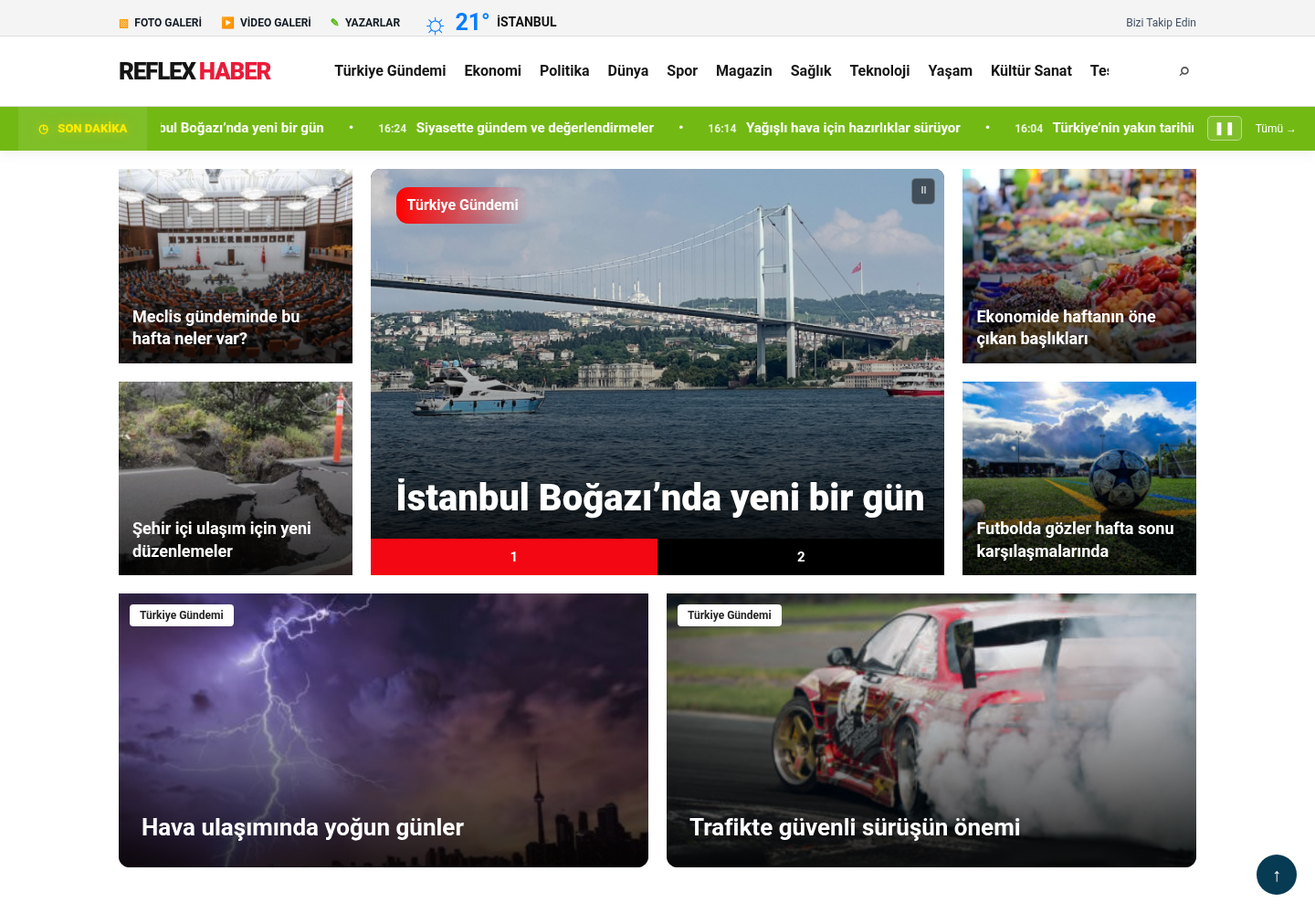
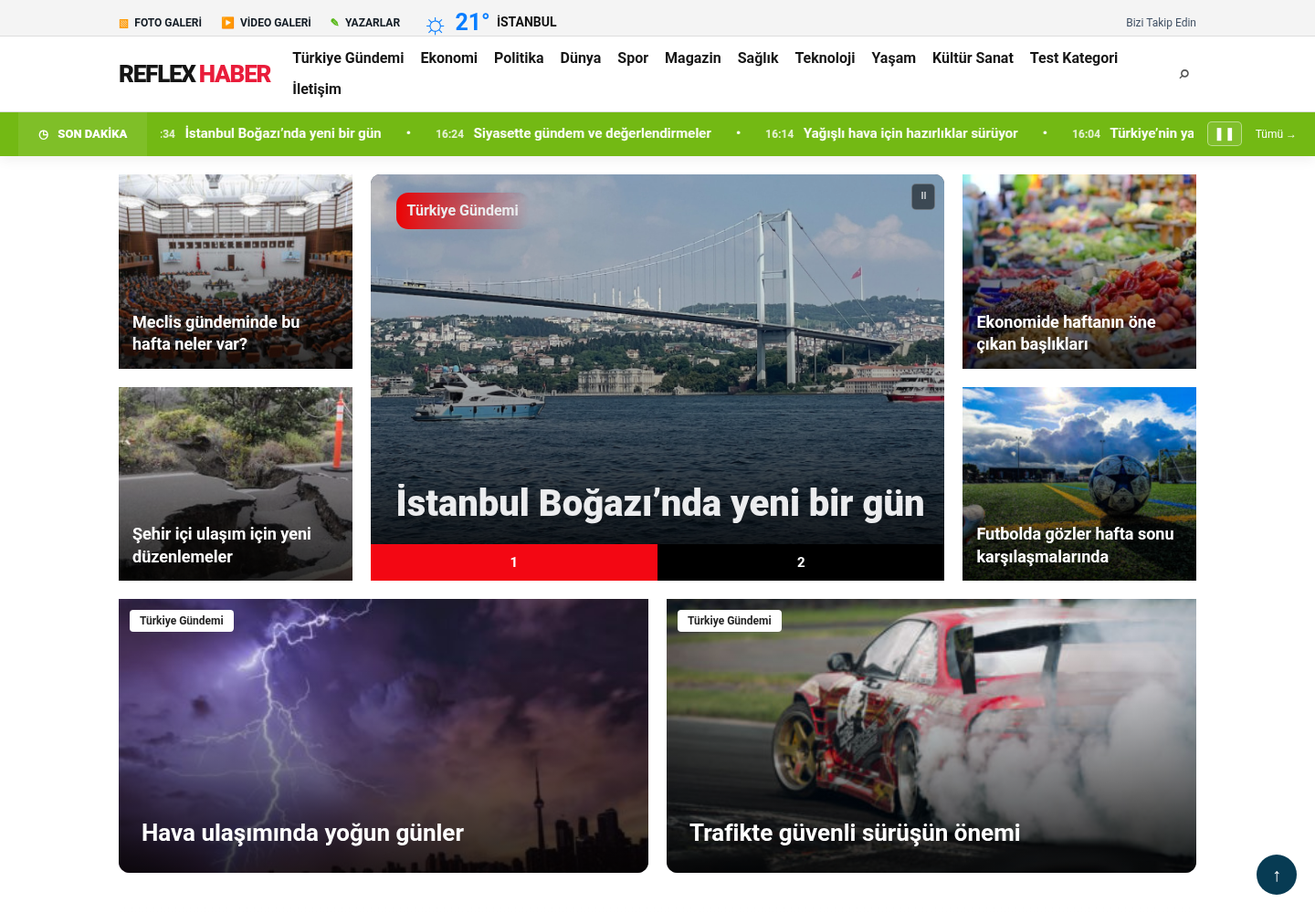
Release Pro 3.3.3: live traffic, panel repairs and SQL cPanel bundle

diff --git a/README.md b/README.md
@@ -1,18 +1,22 @@
-# Reflex Haber Pro 3.3.2 · 4 Tema
+# Reflex Haber Pro 3.3.3 · 4 Tema
 
 PHP 8.1+ haber sitesi ve Türkçe yayın yönetim merkezi. MySQL/MariaDB veya SQLite; Composer, Laravel ve Node kurulumu gerekmez.
 
-**[Pro 3.0 / 3.1 / 3.2 / 3.3 için tek adımda tam güncelleme ZIP](https://github.com/pelinduyar6-pixel/pelin/raw/refs/heads/main/downloads/reflex-haber-pro-3-3-2-tam-guncelleme.zip)**
+**[Pro 3.0 / 3.1 / 3.2 / 3.3 için tek adımda tam güncelleme ZIP](https://github.com/pelinduyar6-pixel/pelin/raw/refs/heads/main/downloads/reflex-haber-pro-3-3-3-tam-guncelleme.zip)**
 
-**[Yeni kurulum için tam paket ZIP](https://github.com/pelinduyar6-pixel/pelin/raw/refs/heads/main/downloads/reflex-haber-pro-4-tema.zip)**
+**[Yeni cPanel kurulumu için SQL içeren tam paket ZIP](https://github.com/pelinduyar6-pixel/pelin/raw/refs/heads/main/downloads/reflex-haber-pro-3-3-3-cpanel-sql.zip)**
 
-[3.3.2 yükleme adımları](GUNCELLEME-3-3-2.md) · [Doğrulama sonuçları](DOGRULAMA-3-3-2.md) · [Veri taşıma](VERI-TASIMA.md) · [Kurulum](KURULUM.md) · [Nginx](NGINX.md) · [SHA-256](downloads/reflex-haber-pro-3-3-2-tam-guncelleme.sha256)
+Bu sürüm: kaydırma çubuğu olmayan kategori menüsü, manşet üzerinde Son Dakika şeridinin kaldırılması, referans sütun düzeninde haber listesi, ayrı editör adım numaraları, gerçek anonim **Canlı Veri Merkezi**, **BİK kod alanı** ve elle seçilen/açılan bot kaynakları.
+
+[3.3.3 yükleme adımları](GUNCELLEME-3-3-3.md) · [Doğrulama sonuçları](DOGRULAMA-3-3-3.md) · [Veri taşıma](VERI-TASIMA.md) · [Kurulum](KURULUM.md) · [Nginx](NGINX.md) · [SHA-256](downloads/reflex-haber-pro-3-3-3-tam-guncelleme.sha256)
 
 **104 KB’lık eski Pro 3.0→3.1 ZIP’i güncel değildir.** Güncel paket tüm gerekli uygulama, CSS ve JavaScript dosyalarını birlikte içerir. Güncellemeden sonra panelde **Sistem Kontrolü** ekranından eksik/karışık dosyaları görebilirsiniz.
 
+Yeni cPanel için [SQL içeren tam paket](https://github.com/pelinduyar6-pixel/pelin/raw/refs/heads/main/downloads/reflex-haber-pro-3-3-3-cpanel-sql.zip) ve [cPanel kurulum adımları](CPANEL-KURULUM-3-3-3.md).
+
 Yeni kurulum için [SQL ZIP](downloads/reflex-haber-sql.zip), [SQL dosyası](downloads/reflex-haber-pro.sql) ve [phpMyAdmin adımları](SQL-KURULUM.md). **Çalışan siteyi güncellerken SQL’i yeniden içe aktarmayın.**
 
-## 3.3.2 düzeltmesi ve korunan araçlar
+## 3.3.3 düzeltmesi ve korunan araçlar
 
 - Dört temanın 3.2 ana sayfa ve footer görünümü geri alındı; son tema yeniden tasarımı kaldırıldı. Marka renkleri panelden seçilir. Kategori manşetinin beyaz bant ve başlık/numara çakışması düzeltmeleri korunur. Haber listesinde Önceki / 1 / 2 / 3 / Sonraki ayrı düğmelerle gösterilir.
 - **Türkiye Gündemi** ana manşet ve haber alanıdır. Eski Gündem kategori ID’si ve `gundem` URL’si korunur. **Ana Sayfa & Kategoriler** ekranından ana kategori, alt bölümler, sıraları ve görünümleri seçilir. Ana sayfa ve haber içinde gerçek görüntülenme sayılarına göre **En çok okunanlar** sağ sütunu; içeriksiz video/galeri bölümleri gizlenir.
@@ -22,7 +26,7 @@ Yeni kurulum için [SQL ZIP](downloads/reflex-haber-sql.zip), [SQL dosyası](dow
 - Haber detayı: görselli son haberler, ilgili haberler ve en çok okunanlar. **Reklam Alanları**: metin içi reklam ve haber sağ sütunu üst/orta/alt; cihaz/zaman/öncelik ayarları. Atanmamış reklam boş kutu bırakmaz.
 - **Veri Taşıma**: ilk ekranda SQL, görsel ZIP ve doğrudan uploads / resim klasörü seçimi vardır. SQL ve görseller ayrı yüklenebilir; klasörler küçük gruplarla gönderilir. Alt yollar korunur, tablo/alan/kategori ID eşleştirmesi ve haber önizlemesi sunulur. Boş kategori ID’leri korunur; çakışmalarda mevcut kategoriler ezilmez. Haberler 100 kayıtlık, devam edebilen adımlarla **taslak** aktarılır. Aynı SQL’in tekrar işlenmesi haberleri çoğaltmaz. Eski hesaplar/parolalar ve çoklu kategori ilişki tabloları bu aktarımın kapsamı dışındadır; [desteklenen biçimler](VERI-TASIMA.md).
 
-[Türkiye Gündemi](previews/pro/turkiye-gundemi.png) · [Paylaş menüsü](previews/pro/paylas-menu.png) · [Bot merkezi](previews/pro/bot-merkezi.png) · [Haber detayı](previews/pro/haber-detay.png) · [Kategori manşeti](previews/pro/kategori-slider.png) · [SQL / ZIP / klasör yükleme](previews/pro/veri-tasima-yukleme.png) · [Taşıma önizlemesi](previews/pro/veri-tasima-onizleme.png) · [Düzeltilen sayfalama](previews/pro/haber-sayfalama.png) · [Sistem Kontrolü](previews/pro/sistem-kontrolu.png)
+[Türkiye Gündemi](previews/pro/turkiye-gundemi.png) · [Paylaş menüsü](previews/pro/paylas-menu.png) · [Bot merkezi](previews/pro/bot-merkezi.png) · [Haber detayı](previews/pro/haber-detay.png) · [Kategori manşeti](previews/pro/kategori-slider.png) · [SQL / ZIP / klasör yükleme](previews/pro/veri-tasima-yukleme.png) · [Taşıma önizlemesi](previews/pro/veri-tasima-onizleme.png) · [Haber listesi / paylaş](previews/pro/haber-listesi.png) · [Canlı veri merkezi](previews/pro/canli-veri.png) · [BİK kod alanı](previews/pro/bik-kodu.png) · [Düzeltilen sayfalama](previews/pro/haber-sayfalama.png) · [Sistem Kontrolü](previews/pro/sistem-kontrolu.png)
 
 ![Tema 1](previews/pro/tema-1.png)
 
@@ -47,10 +51,10 @@ Haber/makale yönetimi, filtreli toplu seçim ve yayına alma/taslak/silme; MP4/
 
 ## Kurulum ve doğrulama
 
-Yeni klasöre tam ZIP’i açın; `/kurulum.php` ile kendi veritabanı ve yönetici hesabınızı oluşturun. Panel `/panel.php` adresindedir. Çalışan Pro 3.2 için küçük güncelleme ZIP’i; daha eski PHP sürümünde tam paketin uygulama dosyaları kullanılır. **`.env`, `storage`, `uploads` korunur; çalışan site yeniden kurulmaz.** Eski Laravel paketinin üzerine açmayın.
+Yeni klasöre tam ZIP’i açın; `/kurulum.php` ile kendi veritabanı ve yönetici hesabınızı oluşturun. Panel `/panel.php` adresindedir. Çalışan Pro 3.0 ve sonrası için 3.3.3 tam güncelleme ZIP’i kullanılır. **`.env`, `storage`, `uploads` korunur; çalışan site yeniden kurulmaz.** Eski Laravel paketinin üzerine açmayın.
 
 Kaynak, piyasa, lig ve OpenAI bağlantılarını panelde test edin; gizli anahtarları yalnızca özel panel alanlarına girin. Hosting cron görevini 5 dakikada bir kurun. SQL/görsel taşıma önce test ortamında denenmelidir. Storage HTTP erişimine kapalı, PHP Phar uzantısı görsel ZIP işlemi için açık olmalıdır.
 
-SQLite/MySQL üzerinde URL/saat ayarları, ortak model, reklam yerleşimleri, gerçek SQL/görsel ZIP ve doğrudan klasör aktarımı, taslaklar, kategori ID ilişkileri ve izin/CSRF kontrolleri geçti. Dört tema ve yönetim ekranları 320–1440 pikselde; paylaşım/clipboard, manşet, yazar kaydırma ve taşıma önizlemesi doğrulandı. Gerçek 3.2 → 3.3 delta testi **56 haber, 7 hesap/parola hash’i, kategori ID/URL’leri, özel ayarlar, anahtar dosyaları, .env ve PDF’yi korudu**. Yeni kurulum ve 22 tablolu şema doğrulandı.
+3.3.3: 104 PHP dosyasının sözdizimi, 140 PHP entegrasyon kontrolü, 160 tarayıcı kontrolü ve SQLite/MySQL’de 32 yeni özellik HTTP kontrolü geçti. SQL içeren yeni cPanel paketi boş MariaDB veritabanına aktarılarak 24 tablo, web kurulumu, yönetici girişi, haber/görsel işlemleri ve veri taşıma doğrulandı. Gerçek Pro 3.0 ve 3.3.2 kurulumlarına tekrarlı güncellemede eski haberler, hesap/parolalar, kategori ID’leri, seçilmiş bot kaynakları, ayarlar ve özel dosyalar korundu. [Ayrıntılı kanıt ve sınırlar](DOGRULAMA-3-3-3.md).
 
 Önceki doğrulamada resmi dört haber RSS’i, Sözcü fiyatları ve NTV lig/BIST verileri ayrıştırıldı. Bulut PHP DNS pinleme kontrolünde dış alan adları çözülemedi; koruma kapatılmadı. Hosting bağlantıları ayrıca test edilmelidir. Gerçek OpenAI model erişimi/ücretli ajans çağrısı ve canlı hosting dağıtımı yapılmadı. Önceki ZIP’ler downloads klasöründe korunur; eski yamaları 3.3.1 dosyalarının üzerine uygulamayın.

diff --git a/DOGRULAMA-3-3-3.md b/DOGRULAMA-3-3-3.md
@@ -1,0 +1,35 @@
+# Pro 3.3.3 doğrulaması · 10 Ekim 2026
+
+Yerel ve ayrı test kurulumlarında PHP 8.4.24, SQLite, MariaDB 11.8 ve Chromium kullanıldı. Üretim veritabanına bağlanılmadı, canlı hosting dosyaları değiştirilmedi.
+
+## Tam kurulum ve gerçek sürüm güncellemesi
+
+- Yeni cPanel ZIP’inin içindeki SQL boş MariaDB veritabanına aktarıldı: **24 tablo, sıfır hesap ve özel kayıt**. Ardından web kurulumu, yönetici girişi, haber yayınlama/düzenleme, görsel yükleme, yorum onayı, zamanlanmış yayın ve yetki kontrolleriyle 30 HTTP kontrolü geçti.
+- Aynı yeni kurulumda eski SQL + ayrı görsel ZIP ile taslak aktarımı, kategori ID korunması, kapak/önizleme, yetkisiz erişimin engellenmesi ve özel geçici dosyaların temizlenmesi geçti.
+- Gerçek Pro 3.0 arşivinden kurulan sistem 3.3.3 ZIP’iyle birden fazla kez güncellendi. **47 haber, 7 hesap/parola hash’i, 11 kategori ve reklam kaydı** korundu. `.env`, `storage/site.php` ve yüklenen PDF’nin SHA-256 değerleri değişmedi.
+- Gerçek Pro 3.3.2 kurulumunda aynı tekrar uygulama geçti: **56 haber, 7 hesap/parola hash’i, 11 kategori, 4 seçilmiş bot kaynağı ve reklam kaydı** korundu. Manuel ayarlar ve özel dosyalar değişmedi.
+- Sistem Kontrolü doğru paketi doğruladı; eski CSS dosyası ve eksik sayfalama CSS’i doğru dosya yoluyla raporlandı. Dosya geri konunca uyarı kalktı. Editörün bu yönetici ekranına erişimi engellendi. SQLite ve MySQL’de toplam 12 kontrol geçti.
+
+## Menü, haber yönetimi ve gerçek trafik
+
+- Dört tema **1720, 1440, 1100, 900, 768, 390 ve 320 piksel** genişliklerde tarayıcıdan kontrol edildi. Kategori menüsünde yatay taşma/çubuk yok; mobil menü açıldığında bütün bağlantılar erişilebilir. Manşet resminin üzerindeki dikey Son Dakika şeridi görünmüyor.
+- Altı panel ekranında beş farklı genişlikte sayfanın yatay taşmadığı doğrulandı. Çok sütunlu haber tablosu dar ekranlarda kendi kapsayıcısında kaydırılır.
+- Haber tablosunun referans sütun sırası, paylaş menüsündeki sekiz servis + bağlantı kopyalama, sayfa 2’ye geçiş ve sayfa düğmeleri arasındaki boşluk doğrulandı. Haber editöründe 1–4 numaraları kendi etiketleriyle aynı sırada ve çakışmadan görüntüleniyor.
+- Gerçek anonim tarayıcı ziyaretinden sonra panelin 15 saniyelik yenilemesinde ziyaretçi ve ilgili sayfa göründü. Canlı kartın başlık/zemin okunaklılığı ayrıca kontrol edildi.
+- Tarayıcı senaryosunda **160 kontrol geçti; JavaScript hatası yok**. Önizleme görselleri test kurulumundan alındı.
+- SQLite ve MySQL’de **32 HTTP kontrolü** geçti: canlı ekran, panelin sayılmaması, gerçek sayfa görüntülenmesi, CSRF, sahte sayfa heartbeat’inin reddi, heartbeat’in görüntülenme artırmaması, BİK kodunun kaydedilip ziyaretçi sayfasında bir kez ve panelde hiç çalışmaması, özel kaynak URL’si/günlük saat kaydı, kaynağı duraklatma/yeniden açma ve ayarların korunması.
+- Yeni kurulumdaki hazır bot önerilerinin kullanıcı seçene kadar duraklatılmış olduğu doğrulandı. URL kaydetme ağ bağlantısı başlatmaz; gerçek fetch, DNS/IP/özel ağ ve TLS denetimlerini kullanmayı sürdürür.
+
+## SQL, uploads ve diğer denetimler
+
+SQLite/MySQL üzerinde SQL yükleme, alan eşleştirme, kategori ID çakışması, doğrudan uploads klasörü, alt yolları koruma, aynı dosya adının farklı alt klasörlerde doğru eşleşmesi ve tekrar yüklemede çoğalmama geçti. Tarayıcıdan gerçek klasör seçimi ve küçük grup yüklemeleri denendi; kesilen yüklemenin tekrarında dosya eşleştirmeleri korunuyor. ZIP içindeki yol aşımı ve sahte resim dosyaları reddediliyor.
+
+Mevcut PHP entegrasyon senaryolarında **140 kontrol** geçti; trafik penceresi, eski kayıt temizliği, URL yapılandırma denetimi, SEO, bot zamanlaması, kategoriler, reklamlar, veri taşıma ve sürüm dosyası denetimi kapsandı. **104 PHP dosyasında sözdizimi hatası yok**.
+
+Tam kurulum ve güncelleme ZIP’lerinin bütünlüğü, dosya özetleri ve özel dosya/anahtar dışlama kontrolleri geçti. Güncelleme ZIP’i `.env`, `storage` ve `uploads` içermez. Tam ZIP özel bağlantı dosyalarını, kayıtlı API anahtarlarını ve kullanıcı yüklemelerini içermez; kurulum bunları ilgili sitede oluşturur.
+
+## Doğrulamanın sınırları
+
+Gerçek ücretli OpenAI/ajans çağrıları ve canlı hosting cron çalışması yapılmadı. GPT-5.6 Sol/Terra/Luna seçeneklerinin API erişimi kullanıcının hesabıyla panelde sınanmalıdır. Dış sağlayıcı bağlantılarında bulut PHP DNS pinleme katmanının çözümleme sınırı devam ediyor; güvenlik denetimleri kapatılmadı. Hosting bağlantıları ayrıca test edilmelidir.
+
+Aktarım testleri örnek eski SQL/görsel arşivleriyle yapıldı; kullanıcının gerçek eski veritabanı henüz verilmedi. Desteklenen SQL biçimleri ve alan eşleştirme sınırları [VERI-TASIMA.md](VERI-TASIMA.md) içinde açıklanır. Kurulum SQL’i eski sitenin haber arşivinin yerine geçmez.

diff --git a/CPANEL-KURULUM-3-3-3.md b/CPANEL-KURULUM-3-3-3.md
@@ -1,0 +1,26 @@
+# Yeni cPanel kurulumu · Reflex Haber Pro 3.3.3
+
+**reflex-haber-pro-3-3-3-cpanel-sql.zip** dört temayı, tüm uygulamayı ve `database/reflex-haber-pro.sql` dosyasını birlikte içerir. SQL, 24 tabloluk boş kurulum şemasıdır; eski sitenizin haberleri, parolaları veya API anahtarları pakete eklenmez. Yönetici hesabınızı kurulumda kendiniz oluşturursunuz; örnek haberleri isteğe bağlı ekleyebilirsiniz.
+
+1. cPanel → **MultiPHP Manager / Select PHP Version**: PHP 8.1 veya üzerini seçin. PDO MySQL, DOM, Fileinfo, Mbstring, cURL ve OpenSSL uzantıları açık olsun. Görsel ZIP aktarımı için Phar veya ZipArchive gerekir; doğrudan klasör yükleme ZIP uzantısı gerektirmez.
+2. **Dosya Yöneticisi** ile ZIP’i alan adının belge köküne yükleyip açın. `index.php`, `kurulum.php`, `app`, `assets`, `views`, `storage` ve `uploads` aynı seviyede olmalıdır. Ana alan adında genellikle `public_html`, ek alan adında ise cPanel’de o alan adı için yazan klasördür. `.htaccess` dosyalarını da yükleyin. Çalışan başka sitenin üzerine yeni kurulum yapmayın.
+3. **MySQL Database Wizard** ile yeni veritabanı ve kullanıcı oluşturun; kullanıcıyı veritabanına **Tüm Yetkiler** ile ekleyin. İsimleri cPanel hesap ön ekiyle birlikte kullanın.
+4. **phpMyAdmin** → yeni veritabanı → **İçe aktar**: paketteki `database/reflex-haber-pro.sql` dosyasını UTF-8 olarak içe aktarın. Bu adım isteğe bağlıdır; kurulum ekranı aynı tabloları kendisi de oluşturabilir. Mevcut başka sitenin SQL dosyasını bu boş kurulum şemasının yerine kullanmayın.
+5. Tarayıcıda `https://ALAN-ADINIZ/kurulum.php` açın. MySQL’i seçin; host bilgisini hostingin verdiği şekilde girin (çoğunlukla `localhost`, port `3306`). Tam veritabanı adını, kullanıcıyı ve şifreyi yazın. Site adresinizi, kendi yönetici e-postanızı ve güçlü şifrenizi belirleyin. **Bağlantıyı test et** sonrasında şifre alanlarını tekrar doldurup kurulumu tamamlayın. Eski haberleri taşıyacaksanız örnek haber seçimini kapatın.
+6. Yönetim paneline `/panel.php` ile girin. **Sistem Kontrolü** ekranında sürümün **3.3.3** ve “Güncelleme dosyaları eksiksiz” olduğunu kontrol edin. Kurulum tamamlanınca kurulum ekranı yeniden hesap oluşturulmasına kapanır.
+
+`storage` ve `uploads` PHP kullanıcısı tarafından yazılabilir olmalıdır; genellikle klasörler 755/775, dosyalar 644 yeterlidir. `storage` içindeki bağlantı/anahtar dosyaları HTTP üzerinden erişilmemelidir; paketteki `.htaccess` bu erişimi kapatır. Kurulum `storage/site.php` bağlantı dosyasını oluşturur. Veritabanı şifresi ile haber paneli şifresi farklıdır.
+
+## Eski SQL ve uploads klasörünüzü taşımak
+
+Kurulum tamamlandıktan sonra **Veri Taşıma** menüsünü açın. Eski SQL dosyanızı ve ayrı `uploads` / resim klasörünü seçin; klasörü doğrudan veya ZIP olarak yükleyebilirsiniz. SQL ve görselleri farklı zamanlarda da ekleyebilirsiniz. Tablo/alanları eşleştirin, kategori ID’lerini ve görselleri önizlemede kontrol edin, haberleri taslak olarak aktarın. Boş kategori ID’leri korunur; çakışmalarda mevcut kategori ezilmez. Haber kapakları ve içerik resimleri eski alt klasör yollarına göre eşleştirilir. Kesilen görsel yüklemesi tekrar denenebilir.
+
+Desteklenen SQL biçimleri ve eşleştirme sınırları [VERI-TASIMA.md](VERI-TASIMA.md) içindedir. Test sitenizde aktarılan taslakları inceleyip ardından yayına alın; eski hesap ve parolalar bu haber aktarımına dahil değildir.
+
+## Bot, canlı veri ve BİK
+
+- **Botlar**: kendi kaynak URL’nizi, kategorinizi, günlük Türkiye saatini veya tarama aralığını seçin. Hazır öneriler yeni kurulumda duraklatılmıştır. **Cron Ayarları** bölümündeki bu kurulum için üretilen komutu cPanel Cron Jobs’a 5 dakikada bir çalışacak şekilde ekleyin. Kaynak saatleri bundan sonra uygulanır. Panelde URL ve API bağlantı testlerini yapın; anahtarları özel panel alanlarına girin.
+- **Canlı Veri Merkezi**: bu kurulumdan sonra gerçekleşen anonim ziyaretleri gösterir; sayfa açıkken 15 saniyede bir yenilenir. Ziyaretçisi olmayan yeni sitede sıfır görünmesi normaldir.
+- **Özel Kodlar → BİK takip kodu**: kurumun verdiği kodu bu alana yapıştırıp kaydedin. Kod ziyaretçi sayfalarında gövde kapanışından önce bir kez eklenir.
+
+1044 hatasında kullanıcıyı doğru veritabanına tüm yetkilerle bağlayın. 1045 hatasında cPanel ön ekli kullanıcı adını ve MySQL şifresini kontrol edin. Yükleme sonrası eski görünüm kalırsa Ctrl+F5 kullanın; Sistem Kontrolü’ndeki eksik/farklı dosyaları yeniden yükleyin.

diff --git a/GUNCELLEME-3-3-3.md b/GUNCELLEME-3-3-3.md
@@ -1,0 +1,32 @@
+# Pro 3.0 ve sonrası → 3.3.3
+
+Tek güncelleme: **reflex-haber-pro-3-3-3-tam-guncelleme.zip**. Önceki paketleri sırayla yüklemeniz gerekmez.
+
+1. Site dosyalarınızın ve veritabanınızın yedeğini alın.
+2. ZIP’i açıp içindekileri **index.php bulunan site köküne** yükleyin. `app`, `assets`, `views` ve kök PHP dosyalarını birlikte değiştirin; `release-files.json` kökte bulunmalıdır.
+3. Mevcut `.env`, `storage` ve `uploads` dosyalarını silmeyin. Güncelleme ZIP’inde bunlar bulunmaz. SQL’i yeniden içe aktarmayın ve yeniden kurulum yapmayın; gereken iki canlı trafik tablosu panel/site ilk açılışında eklenir.
+4. Ctrl+F5 ile yenileyin. **Sistem Kontrolü** ekranında 3.3.3 ve “Güncelleme dosyaları eksiksiz” görünmelidir. Eksik/farklı dosyaları paketle karşılaştırın. OPcache dosya zamanlarını denetlemiyorsa hosting panelinden bu sitenin PHP sürecini yeniden başlatın.
+
+## İstenen düzen ve araçlar
+
+- Dört temada kategori menüsü masaüstünde satıra yayılır; yatay kaydırma çubuğu ve kesilen ilk kategori yazısı kaldırılır. Mobil menü bütün kategorileri gösterir.
+- Manşet resminin üzerindeki dikey Son Dakika şeridi kapatılır. Üstteki ayrı son dakika haber akışı, panelde Üst Bant & Son Dakika ayarından yönetilir.
+- Haber listesinde ayrı **ID, kapak, başlık, kaynak, konum, görüntülenme, yayın, durum, SEO ve işlemler** sütunları vardır. Toplu seçim/silme/yayına alma korunur. Paylaş menüsü sekiz servis + link kopyalama sunar.
+- Haber editörünün 1–4 adımları numara ve etiket olarak ayrılır; sayfalama aralıklı, bağımsız düğmeler kullanır.
+- **Canlı Veri Merkezi** ve kontrol panelindeki **Şu Anda Sitede** alanı: son 5 dakikadaki anonim ziyaretçiler, haber/ana sayfa/diğer sayfa dağılımı, ilgi gören gerçek sayfalar ve son 30 dakika görüntülenme. 15 saniyede bir yenilenir. Heartbeat görüntülenme sayısını artırmaz; panel ve giriş yapmış kullanıcılar sayılmaz. IP kaydedilmez; anonim trafik kayıtları en fazla bir gün tutulur. Ölçüm bu sürüm kurulduktan sonra başlar; eski veriden anlık ziyaretçi tahmini üretilmez.
+- **Özel Kodlar → BİK takip kodu**: kurumun verdiği HTML/JS kodunu yapıştırın. Ziyaretçi sayfalarında `</body>` öncesinde bir kez çalışır; panelde çalışmaz.
+- **Botlar**: kendi URL’nizi, kategori/yazarınızı, günlük Türkiye saatini veya aralığı seçin. Hazır kaynaklar öneridir; yeni kurulumda duraklatılmış başlar. Her kaynak açılabilir/duraklatılabilir. Kaynak URL’sini kaydetmek dış bağlantı başlatmaz; URL testi ve cron sırasında DNS/özel ağ/TLS denetimleri uygulanır. Erişim hatası kayıt altına alınır. Önceden seçtiğiniz kaynaklar ve ayarlar güncellemede korunur.
+
+## SQL ve uploads entegrasyonu
+
+**Veri Taşıma** ilk ekranında eski SQL dosyasını ve ayrı uploads / resim klasörünü seçin; klasörü doğrudan veya ZIP olarak yükleyin. SQL ve görseller farklı zamanlarda da yüklenebilir.
+
+1. SQL ve görseller yüklenir; görseller küçük gruplarla gönderilir, kesinti sonrası devam edilebilir.
+2. Eski haber/kategori tablolarını ve alanlarını eşleştirin. Boş kategori ID’si korunur; mevcut ID çakışmasında eşleştirme gösterilir, var olan kategori ezilmez.
+3. Önizlemede kapaklar ve haber içi resimler eski uploads alt yollarıyla eşleştirilir. Eşleşmeyenler ayrıca gösterilir.
+4. Önizlemeyi onaylayıp taslak aktarımını başlatın. Haberler 100’lük gruplarla arşive eklenir; aynı SQL yeniden yüklense de çoğalmaz.
+5. Haber Merkezi’nde taslakları kontrol edip yayına alın. Geçici aktarım dosyalarını temizlediğinizde haberler ve bağlı resimler kalır.
+
+Desteklenen SQL biçimleri ve kapsam: [VERI-TASIMA.md](VERI-TASIMA.md). Klasör aktarımı JPG/PNG/GIF/WebP görseller içindir. Eski sitenin hesapları, parolaları ve ayarları bu arşiv aktarımıyla otomatik taşınmaz.
+
+[Doğrulama sonuçları](DOGRULAMA-3-3-3.md). Canlı hosting’e otomatik yükleme yapılmamıştır; yeni sürümün orada açıldığını Sistem Kontrolü’nden doğrulayın.

diff --git a/SQL-KURULUM.md b/SQL-KURULUM.md
@@ -3,7 +3,7 @@
 1. phpMyAdmin'i açın. Sol menüden bu site için kullanacağınız MySQL veritabanını seçin. Önce mevcut verilerin yedeğini alın.
 2. Üst menüden **İçe aktar (Import)** seçeneğine tıklayın.
 3. **Dosya seç** ile bu paketteki `reflex-haber-pro.sql` dosyasını seçin. Biçim SQL, karakter kodlaması UTF-8 olsun.
-4. **Git/Uygula (Go)** düğmesine basın. Yeni veritabanında 22 adet `rh6_` tablosu oluşur.
+4. **Git/Uygula (Go)** düğmesine basın. Pro 3.3.3 için yeni veritabanında 24 adet `rh6_` tablosu oluşur.
 5. Sitenizde `/kurulum.php` sayfasını açın. Aynı veritabanının tam adını, MySQL kullanıcısını ve şifresini girin. Kendi yönetici e-postanızı ve şifrenizi belirleyip kurulumu tamamlayın. İsterseniz örnek haberleri ekleyin.
 
 Kurulum sayfası tabloları kendisi de oluşturabilir. SQL dosyası phpMyAdmin üzerinden önceden oluşturmak isteyenler içindir. SQL tek başına yönetici hesabı, bağlantı dosyası veya örnek içerik oluşturmaz; bunlar kurulumda hazırlanır.
@@ -16,4 +16,4 @@ Dosya CREATE TABLE IF NOT EXISTS kullanır; DROP/DELETE/TRUNCATE, parola, API an
 
 **1045:** MySQL kullanıcı adını hesap ön ekiyle birlikte kullanın ve hosting panelinden bu kullanıcının şifresini doğrulayın/yeniden belirleyin. MySQL şifresi ile haber yönetim paneli şifresi farklıdır. SQL içe aktarma bu erişim sorunlarını gidermez.
 
-22 tablonun alanları ve indeksleri uygulamanın oluşturduğu MySQL şemasıyla karşılaştırıldı. Yerel MariaDB üzerinde SQL içe aktarma, ardından web kurulum/yönetici girişi ve haber yayınlama akışı doğrulandı. Canlı hostinginizde işlem yapılmadı.
+SQL şeması uygulamanın oluşturduğu MySQL tablolarından üretilir. Yeni cPanel kurulumu için tam ZIP’in içinde `database/reflex-haber-pro.sql` ve [kurulum adımları](CPANEL-KURULUM-3-3-3.md) vardır. SQL içe aktarma, ardından web kurulum/yönetici girişi ve haber yayınlama akışı yerel MariaDB üzerinde doğrulanır; canlı hostinginizde işlem yapılmadı.

diff --git a/GUNCELLEME-3-3-2.md b/GUNCELLEME-3-3-2.md
@@ -1,3 +1,5 @@
+> Güncel sürüm 3.3.3: [tek güncelleme ve SQL/uploads adımları](GUNCELLEME-3-3-3.md).
+
 # Pro 3.0 / 3.1 / 3.2 / 3.3 → 3.3.2
 
 **Tek adımda tam güncelleme:** `reflex-haber-pro-3-3-2-tam-guncelleme.zip`.
